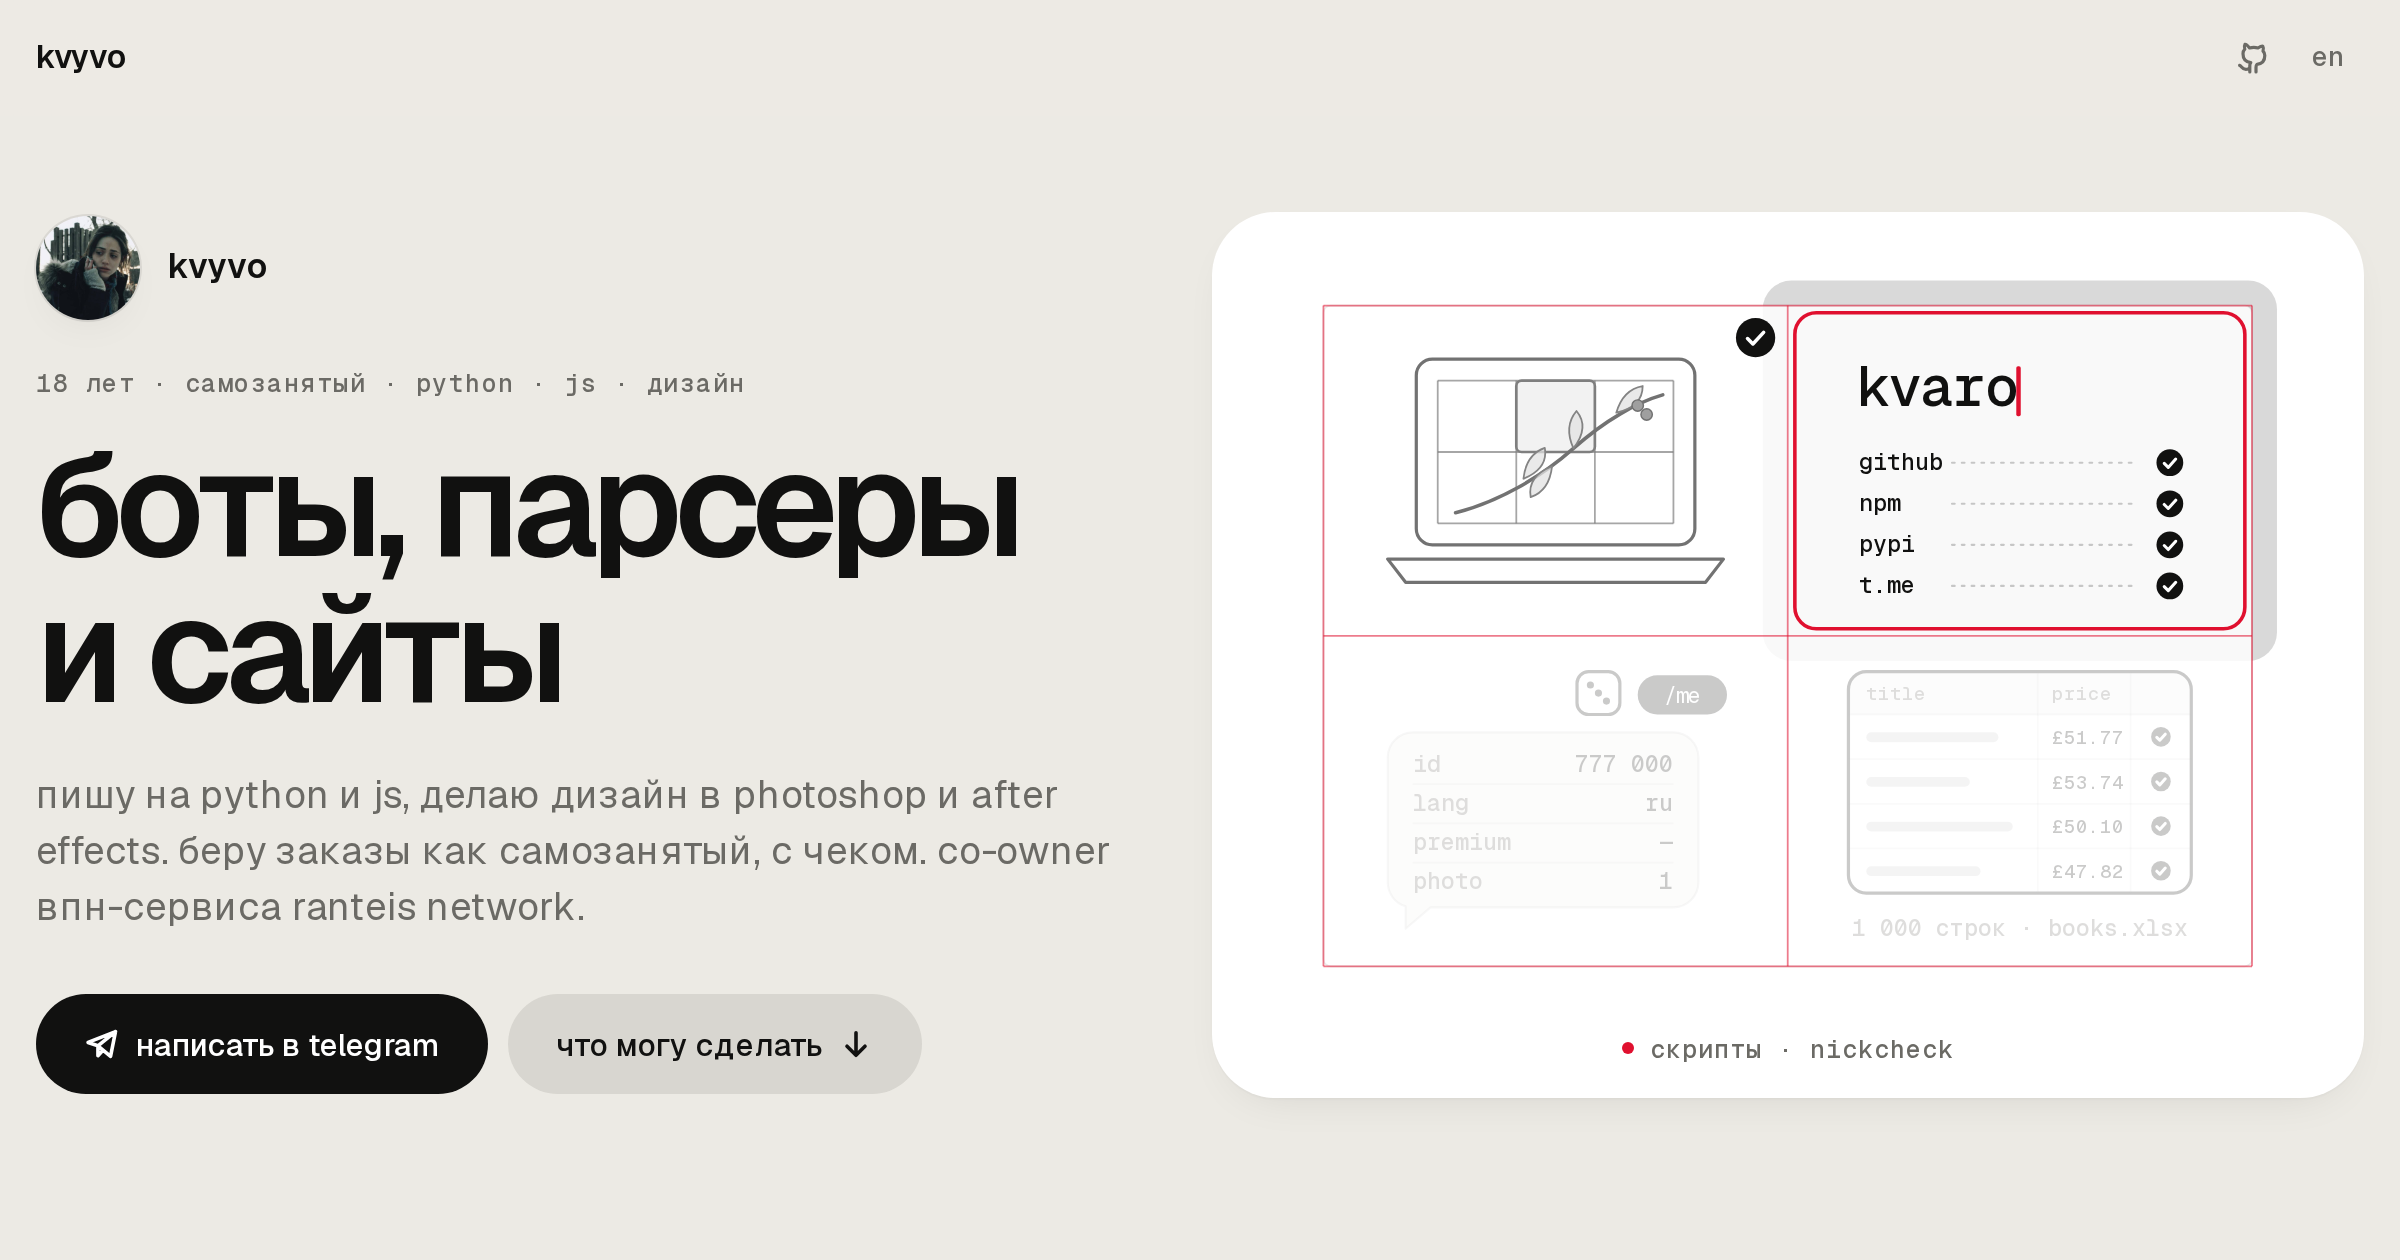
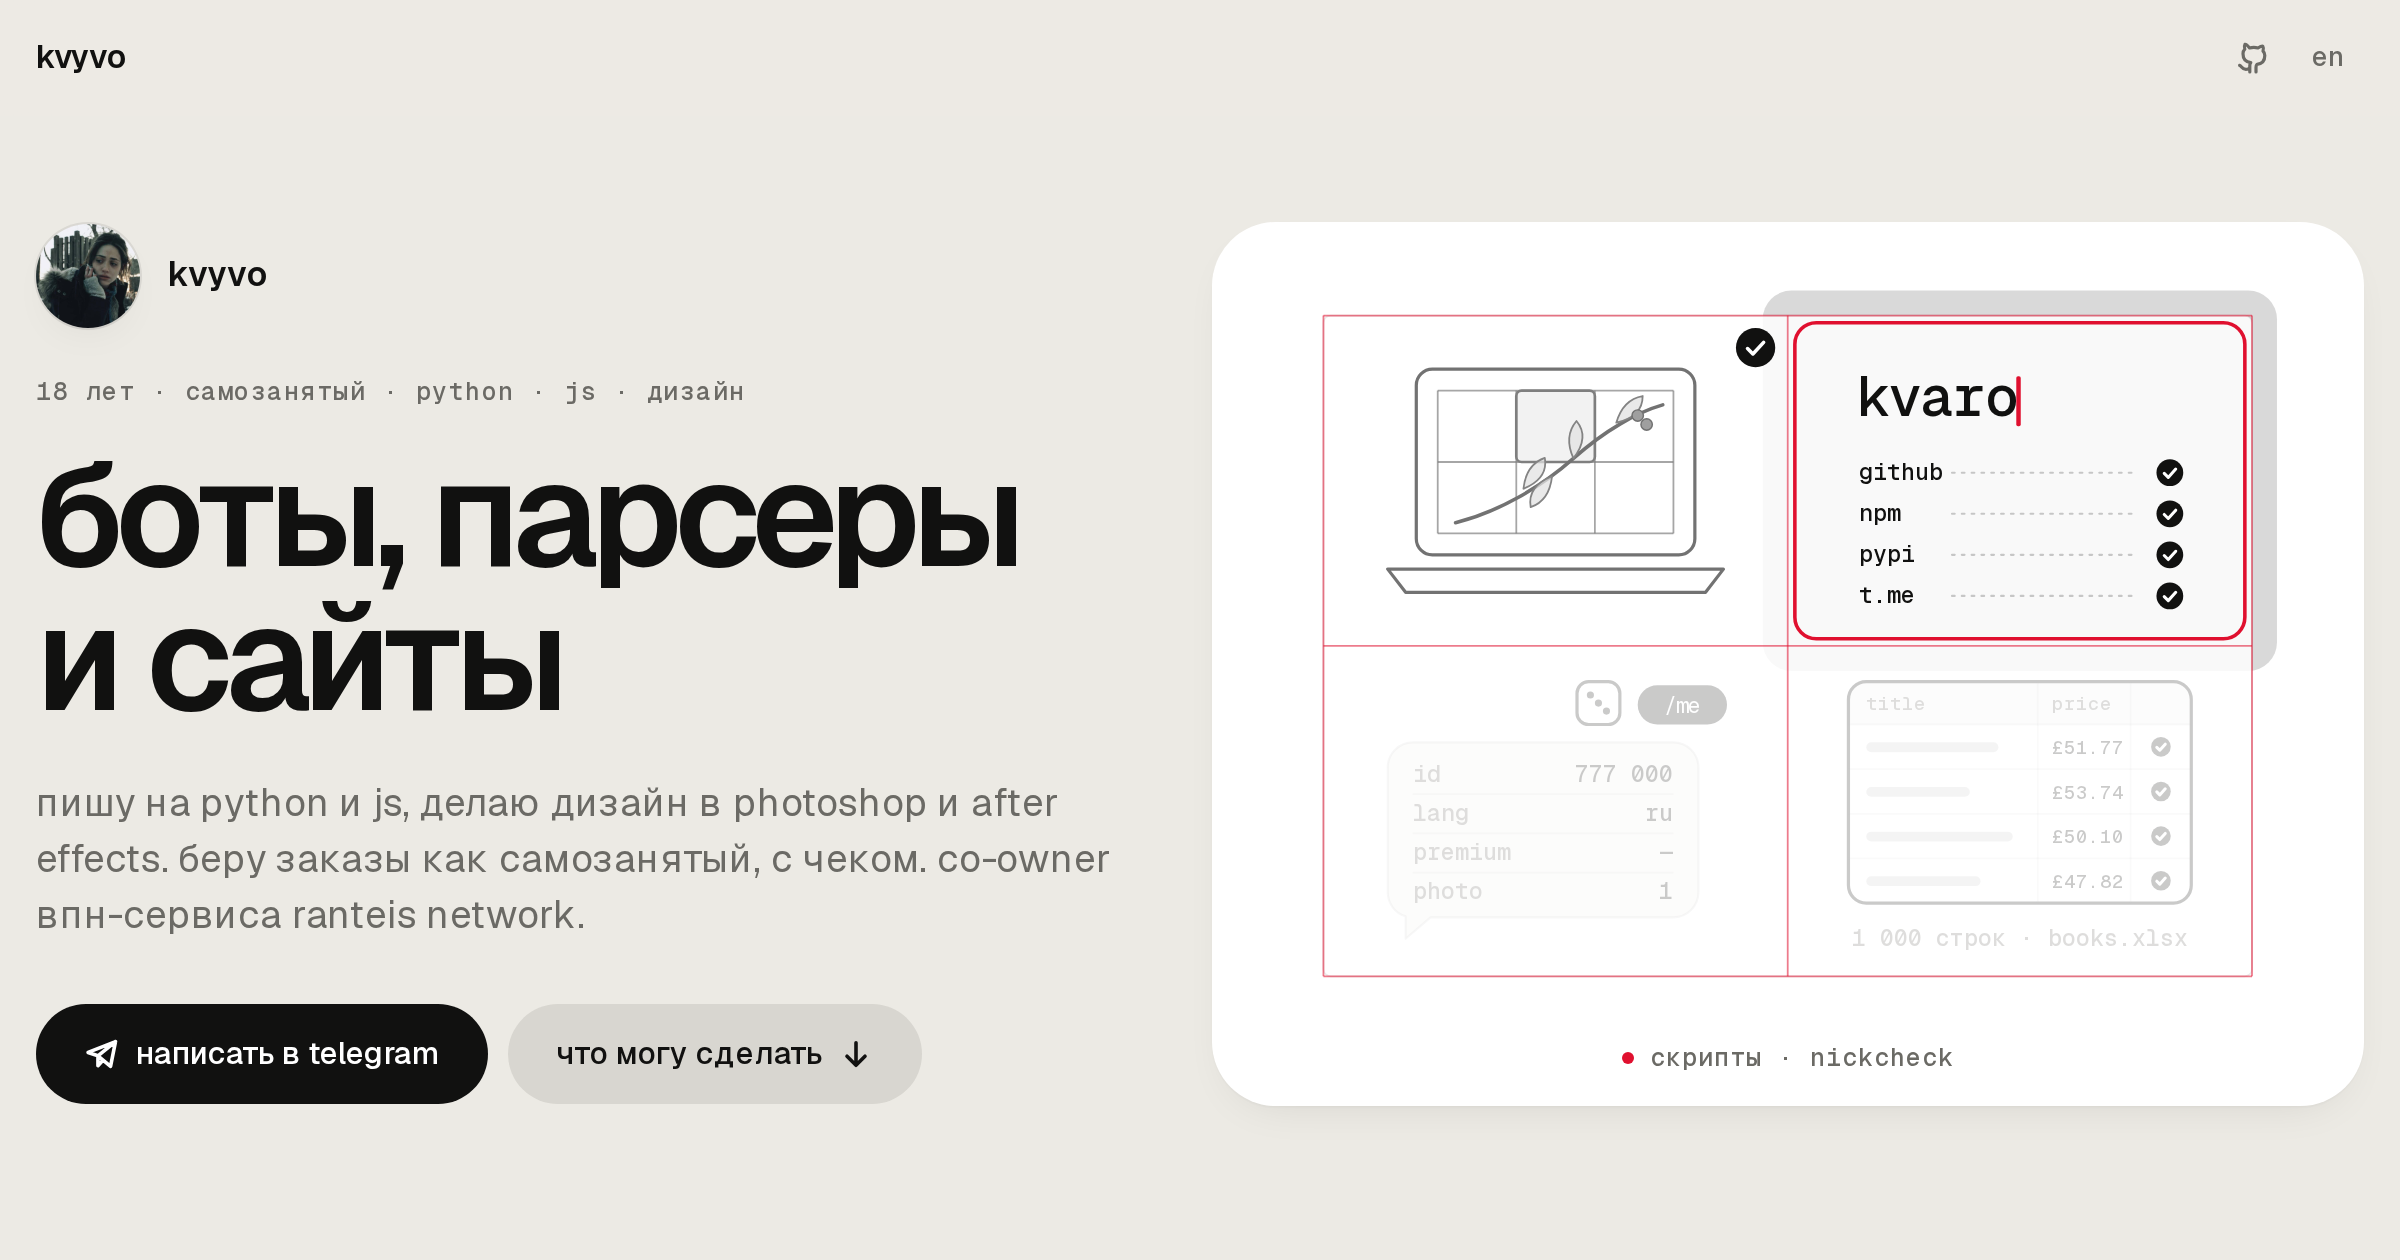
разделы по одному на экран, навигация, discord kvyvo.

diff --git a/js/app.js b/js/app.js
@@ -23,7 +23,7 @@ const open = (url) => { location.href = url; };
 const LINKS = { telegram: 'https://t.me/kvyvo', instagram: 'https://www.instagram.com/kvyvo_', ranteis: 'https://ranteis.one' };
 
 async function copyDiscord() {
-  try { await navigator.clipboard.writeText('kvyvo'); } catch { /* no clipboard: the handle is on screen anyway */ }
+  try { await navigator.clipboard.writeText('kvyvo.'); } catch { /* no clipboard: the handle is on screen anyway */ }
   return t('copied');
 }
 
@@ -42,15 +42,8 @@ const commands = () => [
 const island = createIsland({ commands });
 $('paletteKey').textContent = MAC ? '⌘k' : 'ctrl k';
 
-if (SECTIONS.length) {
-  const io = new IntersectionObserver((entries) => {
-    for (const e of entries) if (e.isIntersecting) island.section(e.target.id);
-  }, { rootMargin: '-40% 0px -55% 0px' });
-  SECTIONS.forEach(([id]) => io.observe($(id)));
-  new IntersectionObserver(([e]) => e.isIntersecting && island.section(null), { rootMargin: '-40% 0px -55% 0px' }).observe($('top'));
-}
-
-// the header lives at the top; scroll down and it slides away, the section nav takes its place
+// the header lives at the top; scroll down and it slides away, the section nav takes its place.
+// the section in view is the last one whose top has passed 45% of the screen; at the very bottom it's the last one.
 let rafScroll = 0;
 const top = document.querySelector('.top');
 const onScroll = () => {
@@ -58,8 +51,31 @@ const onScroll = () => {
   const past = scrollY > 80;
   top.classList.toggle('gone', past);
   island.hide(!past);
+  if (!SECTIONS.length) return;
+  const atEnd = scrollY + innerHeight >= document.documentElement.scrollHeight - 4;
+  let cur = null;
+  for (const [id] of SECTIONS) if ($(id).getBoundingClientRect().top <= innerHeight * 0.45) cur = id;
+  island.section(atEnd ? SECTIONS.at(-1)[0] : cur);
 };
 addEventListener('scroll', () => { rafScroll ||= requestAnimationFrame(onScroll); }, { passive: true });
+
+// one section per screen. css scroll-snap pulls a gentle wheel or trackpad scroll back where it started,
+// so the page settles itself: when scrolling stops near a section's start, it glides the rest of the way.
+// inside a section taller than the screen nothing happens.
+if (SECTIONS.length) {
+  const stops = () => [0, ...SECTIONS.map(([id]) => $(id).getBoundingClientRect().top + scrollY)];
+  let idle = 0, settling = false;
+  const settle = () => {
+    if (settling) { settling = false; return; }
+    if (island.state === 'palette') return;
+    const near = stops().map((y) => y - scrollY).filter((d) => Math.abs(d) > 2 && Math.abs(d) < innerHeight * 0.22);
+    if (!near.length) return;
+    const d = near.sort((a, b) => Math.abs(a) - Math.abs(b))[0];
+    settling = true;
+    scrollBy({ top: d, behavior: reduced() ? 'auto' : 'smooth' });
+  };
+  addEventListener('scroll', () => { clearTimeout(idle); idle = setTimeout(settle, 160); }, { passive: true });
+}
 onScroll();
 
 addEventListener('keydown', (e) => {

diff --git a/css/site.css b/css/site.css
@@ -47,7 +47,7 @@
 
 *, *::before, *::after { box-sizing: border-box; }
 [hidden] { display: none !important; }
-html { -webkit-text-size-adjust: 100%; scroll-behavior: smooth; scroll-padding-top: 72px; }
+html { -webkit-text-size-adjust: 100%; scroll-behavior: smooth; }
 @media (prefers-reduced-motion: reduce) { html { scroll-behavior: auto; } }
 body { margin: 0; background: var(--canvas); color: var(--ink); font: 400 15px/1.5 var(--font); -webkit-font-smoothing: antialiased; text-rendering: optimizeLegibility; overflow-x: clip; }
 button, input { font: inherit; color: inherit; }
@@ -119,7 +119,7 @@ kbd { font: 500 11px/1 var(--mono); padding: 4px 6px; border-radius: 6px; backgr
 
 /* ---------- hero ---------- */
 .wrap { max-width: 1200px; margin: 0 auto; padding: 0 max(18px, env(safe-area-inset-left)) 56px; }
-.hero { display: grid; grid-template-columns: minmax(0, 1fr) minmax(0, 1.05fr); gap: 40px; align-items: center; padding: 48px 0 72px; }
+.hero { display: grid; grid-template-columns: minmax(0, 1fr) minmax(0, 1.05fr); gap: 40px; align-items: center; min-height: calc(100svh - 58px); padding: 24px 0 48px; }
 @media (max-width: 900px) { .hero { grid-template-columns: minmax(0, 1fr); gap: 28px; padding: 32px 0 48px; } }
 .eyebrow { margin: 0 0 18px; font: 500 12.5px/1 var(--mono); letter-spacing: .02em; color: var(--ink-2); }
 h1 { font: 600 clamp(42px, 6.2vw, 80px)/.98 var(--font); letter-spacing: -.048em; margin: 0 0 22px; text-wrap: balance; }
@@ -180,7 +180,8 @@ h1 { font: 600 clamp(42px, 6.2vw, 80px)/.98 var(--font); letter-spacing: -.048em
 .btnrow { display: flex; flex-wrap: wrap; gap: 8px; align-items: center; }
 
 /* ---------- sections ---------- */
-.sec { padding: 24px 0 64px; }
+/* one section per screen: scroll, 01; scroll, 02… (js/app.js settles the page on a section's start) */
+.sec { min-height: 100svh; display: flex; flex-direction: column; justify-content: center; padding: 88px 0 48px; }
 .sec-head { display: grid; grid-template-columns: minmax(0, 1fr) minmax(0, 1fr); gap: 12px 40px; align-items: end; margin-bottom: 28px; }
 .sec-head .eyebrow { grid-column: 1 / -1; margin: 0; }
 h2 { font: 600 clamp(34px, 4.6vw, 56px)/1 var(--font); letter-spacing: -.045em; margin: 0; text-wrap: balance; }

diff --git a/index.html b/index.html
@@ -248,7 +248,7 @@
       <p class="sec-lead" data-i18n="contactLead">удобнее всего — telegram. расскажи, что нужно, и к какому сроку.</p>
       <div class="contact-links">
         <a class="btn light big" href="https://t.me/kvyvo"><svg class="ic" viewBox="0 0 16 16" aria-hidden="true"><path d="M14 2.5 1.8 7.3l4.4 1.5M14 2.5l-2.2 11-5.6-4.7M14 2.5 6.2 8.8v4.4l2.2-2.4"/></svg>telegram · @kvyvo</a>
-        <button class="btn ghost big" type="button" data-copy="discord"><svg class="ic" viewBox="0 0 16 16" aria-hidden="true"><rect x="5" y="5" width="9" height="9" rx="2"/><path d="M11 5V3.5A1.5 1.5 0 0 0 9.5 2h-6A1.5 1.5 0 0 0 2 3.5v6A1.5 1.5 0 0 0 3.5 11H5"/></svg><span data-i18n="copyDiscord">discord · kvyvo</span></button>
+        <button class="btn ghost big" type="button" data-copy="discord"><svg class="ic" viewBox="0 0 16 16" aria-hidden="true"><rect x="5" y="5" width="9" height="9" rx="2"/><path d="M11 5V3.5A1.5 1.5 0 0 0 9.5 2h-6A1.5 1.5 0 0 0 2 3.5v6A1.5 1.5 0 0 0 3.5 11H5"/></svg><span data-i18n="copyDiscord">discord · kvyvo.</span></button>
         <a class="btn ghost big" href="https://www.instagram.com/kvyvo_"><svg class="ic" viewBox="0 0 16 16" aria-hidden="true"><rect x="2" y="2" width="12" height="12" rx="3.5"/><circle cx="8" cy="8" r="2.8"/><path d="M11.4 4.6v.1"/></svg>instagram · @kvyvo_</a>
         <a class="btn ghost big" href="https://github.com/kvyvo"><svg class="ic" viewBox="0 0 16 16" aria-hidden="true"><path d="M6 13.5c-3 .9-3-1.5-4.2-1.8M10 15v-2.4c0-.7.1-1 .5-1.4 2-.2 3.9-1 3.9-4.4 0-.9-.3-1.7-.9-2.3.3-.8.3-1.7-.1-2.4 0 0-.7-.2-2.4.9a8 8 0 0 0-4.2 0C5.2 1 4.5 1.2 4.5 1.2c-.4.7-.4 1.6-.1 2.4-.6.6-.9 1.4-.9 2.3 0 3.4 1.9 4.2 3.9 4.4-.4.4-.5.8-.5 1.4V15"/></svg>github · kvyvo</a>
       </div>

diff --git a/js/i18n.js b/js/i18n.js
@@ -82,7 +82,7 @@ const RU = {
   secContact: '04 — контакты',
   contactTitle: 'есть задача? напиши.',
   contactLead: 'удобнее всего — telegram. расскажи, что нужно, и к какому сроку.',
-  copyDiscord: 'discord · kvyvo',
+  copyDiscord: 'discord · kvyvo.',
   copied: 'ник discord скопирован',
 
   foot: 'kvyvo — открытый код, mit.',
@@ -195,7 +195,7 @@ const EN = {
   secContact: '04 — contact',
   contactTitle: 'got a task? message me.',
   contactLead: 'telegram is the easiest. tell me what you need and by when.',
-  copyDiscord: 'discord · kvyvo',
+  copyDiscord: 'discord · kvyvo.',
   copied: 'discord handle copied',
 
   foot: 'kvyvo — open source, mit.',
